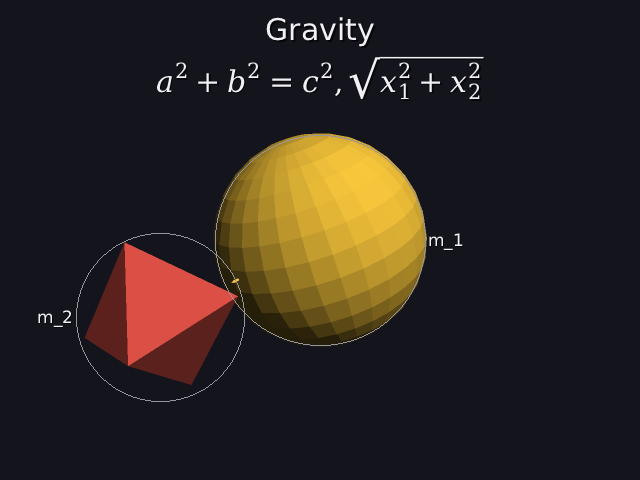
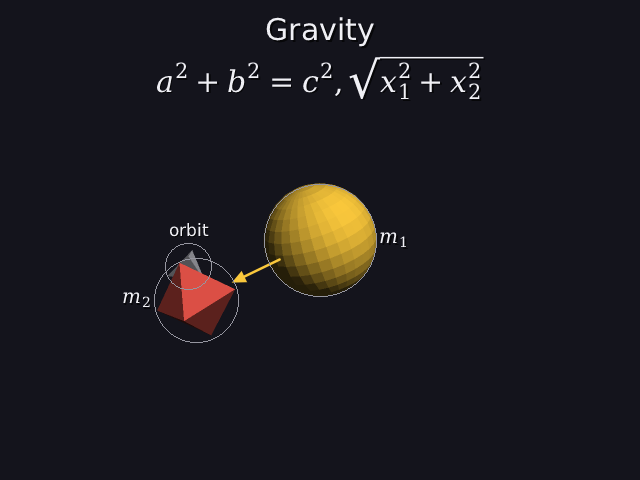
Add timed and pinned labels

Changed region(s): [[0.0625, 0.2812, 0.7188, 0.8125]]

diff --git a/world.cpp b/world.cpp
@@ -18,7 +18,15 @@ std::vector<float> world::load_meshes(const scene_spec& spec){
 
 world::world(const scene_spec& spec,layout::method still_how,motion_plan::method moving_how)
 	: solved(spec, load_meshes(spec), still_how, moving_how), placer(cam.width, cam.height){
-	for(const object_spec& o : spec.objects) labels.push_back(o.label);
+	for(const object_spec& o : spec.objects){
+		world_label l{o.label, o.label_math, o.label_always, o.label_start, o.label_end, {}};
+		if(l.math && !l.text.empty()){
+			math_parse_result parsed = parse_math(l.text);
+			if(parsed.tree && fonts::serif() && fonts::italic()) l.formula = layout_math(*parsed.tree, 20.0f);
+			else l.math = false;
+		}
+		labels.push_back(l);
+	}
 	objects.reserve(spec.objects.size());
 	for(size_t i = 0;i<spec.objects.size();i++){
 		const object_spec& o = spec.objects[i];
@@ -115,21 +123,23 @@ void world::draw_overlays(render& renderer,float t){
 	// titles, across the top, centered (docs/27, 29); several stack downwards
 	float top = 12.0f;
 	for(const title_spec& s : titles){
-		if(t < s.start || (s.end >= 0.0f && t > s.end)) continue;
+		float seen = appear(s.start, s.end, t);
+		if(seen <= 0.0f) continue;
 		// as big as fits: 30 pixels, or smaller if it would run off the sides
 		float size = 30.0f;
 		float room = float(cam.width - 32);
 		float w = render::text_width(s.text, size);
 		if(w > room) size *= room / w;               // text width grows in step with size
 		float x = (cam.width - render::text_width(s.text, size)) / 2.0f;
-		renderer.draw_text(x, top, s.text, size, px::Pixel(240, 240, 245));
+		renderer.draw_text(x, top, s.text, size, px::Pixel(240, 240, 245, uint8_t(255 * seen)));
 		top += render::text_height(size) + 6.0f;
 	}
 	// formulas under the titles, centered, each during its own time range
 	for(const world_math& m : maths){
-		if(t < m.when.start || (m.when.end >= 0.0f && t > m.when.end)) continue;
+		float seen = appear(m.when.start, m.when.end, t);
+		if(seen <= 0.0f) continue;
 		float x = (cam.width - m.formula.width) / 2.0f;
-		renderer.draw_math(x, top + 4.0f, m.formula, px::Pixel(240, 240, 245));
+		renderer.draw_math(x, top + 4.0f, m.formula, px::Pixel(240, 240, 245), seen);
 		top += m.formula.height + m.formula.depth + 12.0f;
 	}
 
@@ -152,17 +162,24 @@ void world::draw_overlays(render& renderer,float t){
 	const float label_size = 17.0f;
 	std::vector<label_request> requests;
 	std::vector<size_t> owner;
+	std::vector<float> seen_amount;
 	for(size_t i = 0;i<objects.size();i++){
-		if(labels[i].empty()) continue;
-		label_request r{render::text_width(labels[i], label_size), render::text_height(label_size), {0, 0}, 0, false};
+		const world_label& l = labels[i];
+		if(l.text.empty()) continue;
+		float w = l.math ? l.formula.width : render::text_width(l.text, label_size);
+		float h = l.math ? l.formula.height + l.formula.depth : render::text_height(label_size);
+		label_request r{w, h, {0, 0}, 0, false, l.always};
+		float seen = appear(l.start, l.end, t);
 		float x, y, radius;
-		if(objects[i].opacity() > 0.05f && renderer.where_on_screen(objects[i].get_position(), objects[i].bounding_radius(), x, y, radius)){
+		if(seen > 0.0f && objects[i].opacity() > 0.05f
+		   && renderer.where_on_screen(objects[i].get_position(), objects[i].bounding_radius(), x, y, radius)){
 			r.anchor = {x, y};
 			r.radius = radius;
 			r.visible = x >= 0 && y >= 0 && x <= cam.width && y <= cam.height;
 		}
 		requests.push_back(r);
 		owner.push_back(i);
+		seen_amount.push_back(seen);
 	}
 	if(requests.empty()) return;
 	const std::vector<placed_label>& placed = placer.place(requests);
@@ -177,10 +194,12 @@ void world::draw_overlays(render& renderer,float t){
 			if(len > 1.0f){
 				float sx = requests[k].anchor.x + dx / len * requests[k].radius;
 				float sy = requests[k].anchor.y + dy / len * requests[k].radius;
-				renderer.draw_screen_line(sx, sy, c.x, c.y, 1.0f, px::Pixel(200, 200, 210, 200));
+				renderer.draw_screen_line(sx, sy, c.x, c.y, 1.0f, px::Pixel(200, 200, 210, uint8_t(200 * seen_amount[k])));
 			}
 		}
-		renderer.draw_text(b.x0, b.y0, labels[owner[k]], label_size, px::Pixel(240, 240, 245));
+		const world_label& l = labels[owner[k]];
+		if(l.math) renderer.draw_math(b.x0, b.y0, l.formula, px::Pixel(240, 240, 245), seen_amount[k]);
+		else       renderer.draw_text(b.x0, b.y0, l.text, label_size, px::Pixel(240, 240, 245, uint8_t(255 * seen_amount[k])));
 	}
 }
 

diff --git a/engine_test.cpp b/engine_test.cpp
@@ -254,6 +254,27 @@ static void test_labels(){
 	}
 	check(overlaps == 0, "15 crowded labels: " + std::to_string(shown) + " shown, 0 overlapping (" + std::to_string(overlaps) + ")");
 
+	// timed words fade in and out over 0.3 s (docs/28)
+	check(appear(2, 8, 1.9f) == 0.0f && appear(2, 8, 5) == 1.0f && appear(2, 8, 8.5f) == 0.0f,
+	      "a label shown 2s-8s: hidden at 1.9 s, there at 5 s, gone at 8.5 s");
+	check(std::fabs(appear(2, 8, 2.15f) - 0.5f) < 1e-5f && std::fabs(appear(2, 8, 7.85f) - 0.5f) < 1e-5f,
+	      "halfway through its 0.3 s fade-in (2.15 s) and fade-out (7.85 s) it's half visible");
+	check(appear(0, -1, 0) == 1.0f, "a label with no time range is simply always there, from the first frame");
+
+	parse_result opts = parse_scene("sun = sphere label math \"m_1\" 2s-8s always\n");
+	const object_spec& sun = opts.spec.objects[0];
+	check(opts.ok() && sun.label_math && sun.label_always && sun.label_start == 2.0f && sun.label_end == 8.0f,
+	      "'label math \"m_1\" 2s-8s always' is read as a formula, shown 2 s to 8 s, never hidden");
+
+	// the crowd again: the one label that was hidden, marked always-on, is shown
+	size_t hidden = 0;
+	for(size_t i = 0;i<out.size();i++) if(!out[i].shown) hidden = i;
+	label_layout crowd2(640, 480);
+	std::vector<label_request> pinned = many;
+	pinned[hidden].always = true;
+	const std::vector<placed_label>& again = crowd2.place(pinned);
+	check(again[hidden].shown, "the label that had no room is shown once it's marked always (label " + std::to_string(hidden) + ")");
+
 	// flicker: B's object jitters back and forth (30 pixels) just right of
 	// A's, for 120 frames; count how often the labels switch side
 	auto flips = [](bool keep){
@@ -386,7 +407,12 @@ static bool same_spec(const scene_spec& a,const scene_spec& b,std::string& why){
 	if(a.objects.size() != b.objects.size()){ why = "different number of objects"; return false; }
 	if(a.arrows.size() != b.arrows.size()){ why = "different number of arrows"; return false; }
 	if(a.titles.size() != b.titles.size()){ why = "different number of titles"; return false; }
-	for(size_t i = 0;i<a.objects.size();i++) if(a.objects[i].label != b.objects[i].label){ why = "labels differ"; return false; }
+	for(size_t i = 0;i<a.objects.size();i++){
+		const object_spec& x = a.objects[i];
+		const object_spec& y = b.objects[i];
+		if(x.label != y.label || x.label_math != y.label_math || x.label_always != y.label_always
+		   || x.label_start != y.label_start || x.label_end != y.label_end){ why = "labels differ"; return false; }
+	}
 	if(a.view != b.view){ why = "different view"; return false; }
 	for(size_t i = 0;i<a.objects.size();i++){
 		const object_spec& x = a.objects[i];

diff --git a/label_layout.cpp b/label_layout.cpp
@@ -64,6 +64,24 @@ bool label_layout::free_at(const box2& b,size_t self,const std::vector<label_req
 	return true;
 }
 
+// How many things a box overlaps, and whether it leaves the picture (that
+// counts as 2, so labels stay on screen if they possibly can).
+int label_layout::crowding(const box2& b,size_t self,const std::vector<label_request>& requests,
+                           const std::vector<placed_label>& placed)const{
+	int count = 0;
+	if(b.x0 < 0 || b.y0 < 0 || b.x1 > width || b.y1 > height) count += 2;
+	for(size_t j = 0;j<placed.size();j++){
+		if(j != self && placed[j].shown && overlap(b, placed[j].where)) count++;
+	}
+	for(size_t j = 0;j<requests.size();j++){
+		if(j == self || !requests[j].visible) continue;
+		const label_request& o = requests[j];
+		box2 dot{o.anchor.x - o.radius, o.anchor.x + o.radius, o.anchor.y - o.radius, o.anchor.y + o.radius};
+		if(overlap(b, dot)) count++;
+	}
+	return count;
+}
+
 const std::vector<placed_label>& label_layout::place(const std::vector<label_request>& requests){
 	size_t n = requests.size();
 	previous = current;
@@ -81,7 +99,11 @@ const std::vector<placed_label>& label_layout::place(const std::vector<label_req
 	}
 	std::vector<size_t> order(n);
 	std::iota(order.begin(), order.end(), 0);
-	std::stable_sort(order.begin(), order.end(), [&](size_t a,size_t b){ return priority[a] > priority[b]; });
+	// always-on labels first (docs/28), then by priority
+	std::stable_sort(order.begin(), order.end(), [&](size_t a,size_t b){
+		if(requests[a].always != requests[b].always) return requests[a].always;
+		return priority[a] > priority[b];
+	});
 
 	for(size_t i : order){
 		const label_request& r = requests[i];
@@ -102,6 +124,16 @@ const std::vector<placed_label>& label_layout::place(const std::vector<label_req
 				break;
 			}
 			if(current[i].shown) break;
+		}
+		if(!current[i].shown && r.always){
+			// an always-on label is never hidden: take the side (next to the
+			// object) that overlaps the fewest things
+			int best = -1, least = 1 << 30;
+			for(int side : sides){
+				int c = crowding(candidate(r, side, gap), i, requests, current);
+				if(c < least){ least = c; best = side; }
+			}
+			current[i] = {true, candidate(r, best, gap), best, false};
 		}
 		if(!current[i].shown) continue;                     // nowhere to go: hidden this frame
 

diff --git a/scene_parser.cpp b/scene_parser.cpp
@@ -209,7 +209,8 @@ static std::vector<token> tokenize(const std::string& source){
 //    header     = "scene" [ text ] [ "view" view_word ]
 //    definition = name "=" shape { property }
 //    fact       = name phrase { [","] phrase }
-//    property   = size | color | "important" | "label" text | phrase | ","
+//    property   = size | color | "important" | label | phrase | ","
+//    label      = "label" [ "math" ] text { "math" | time "-" time | "always" }
 //    phrase     = relation_word name
 //               | "orbits" name [ number ("turn" | "turns") ] time "-" time
 //               | "flies_past" name time "-" time
@@ -479,9 +480,31 @@ void parser::phrase(object_spec& o,const token& first){
 		return;
 	}
 	if(first.value == "label"){
+		if(peek().kind == token_kind::word && peek().value == "math"){ next(); o.label_math = true; }
 		const token& words = next();
 		if(words.kind != token_kind::text) fail(words, "expected the label's words in quotes, like: label \"the sun\"");
 		o.label = words.value;
+		// what may follow the words, in any order
+		while(true){
+			if(peek().kind == token_kind::word && peek().value == "math"){ next(); o.label_math = true; continue; }
+			if(peek().kind == token_kind::word && peek().value == "always"){ next(); o.label_always = true; continue; }
+			if(peek().kind == token_kind::time){
+				o.label_start = time("");
+				const token& dash = next();
+				if(dash.kind != token_kind::dash) fail(dash, "expected '-' between the label's start and end times, like 2s-8s");
+				o.label_end = time("for when the label goes away, like 8s");
+				continue;
+			}
+			break;
+		}
+		if(o.label_math){
+			math_parse_result check = parse_math(o.label);
+			if(!check.error.empty()){
+				token at = words;
+				at.column = words.column + check.column;
+				fail(at, "in the label's formula: " + check.error);
+			}
+		}
 		return;
 	}
 	if(first.value == "fades_in" || first.value == "fades_out"){

diff --git a/scene_spec.h b/scene_spec.h
@@ -133,6 +133,10 @@ struct object_spec{
 	std::vector<motion> motions;   // empty = it stands still
 	std::vector<fade_step> fades;  // fading in or out (docs/24)
 	std::string label;             // words shown next to it (docs/28); empty = none
+	bool label_math = false;       // the label is a formula (docs/30)
+	bool label_always = false;     // never hidden: placed first, even if crowded
+	float label_start = 0.0f;      // shown from start to end; end < 0 = always
+	float label_end = -1.0f;
 
 	// Each of these adds a relation and returns the object itself, so they
 	// can be chained:  spec.add(...).near("cube").above("table");
@@ -203,7 +207,7 @@ public:
 
 	object_spec& add(const std::string& name,const std::string& mesh_file,px::Pixel color,
 	                 size_word size = size_word::normal,int importance = 1){
-		objects.push_back(object_spec{name, mesh_file, color, size, importance, {}, {}, {}, ""});
+		objects.push_back(object_spec{name, mesh_file, color, size, importance, {}, {}, {}, "", false, false, 0.0f, -1.0f});
 		return objects.back();
 	}
 

diff --git a/timeline.h b/timeline.h
@@ -92,6 +92,18 @@ inline float steepest(rate r){
 	return most;
 }
 
+// How visible something shown from `start` to `end` is at time t (docs/28):
+// 0 outside, 1 inside, and a quick fade over `fade` seconds at each end so
+// words don't pop. No fade-in if it starts at 0 (it's there from the
+// start), no fade-out if end < 0 (it never goes away).
+//   appear(2, 8, 2.15) = 0.5       appear(2, 8, 5) = 1       appear(2, 8, 9) = 0
+inline float appear(float start,float end,float t,float fade = 0.3f){
+	if(t < start || (end >= 0.0f && t > end)) return 0.0f;
+	float in  = start > 0.0f ? std::clamp((t - start) / fade, 0.0f, 1.0f) : 1.0f;
+	float out = end >= 0.0f ? std::clamp((end - t) / fade, 0.0f, 1.0f) : 1.0f;
+	return std::min(in, out);
+}
+
 // A stretch of time in seconds, e.g. from second 3 to second 6.
 struct time_span{
 	float start = 0.0f;

diff --git a/world.h b/world.h
@@ -2,6 +2,7 @@
 #include "camera.h"
 #include "frame_source.h"
 #include "label_layout.h"
+#include "math_layout.h"
 #include "mesh.h"
 #include "object.h"
 #include "scene_spec.h"
@@ -60,7 +61,13 @@ private:
 		math_box formula;
 	};
 	std::vector<world_math> maths;
-	std::vector<std::string> labels;      // labels[i] = object i's label ("" = none)
+	struct world_label{
+		std::string text;                 // "" = no label
+		bool math = false, always = false;
+		float start = 0.0f, end = -1.0f;
+		math_box formula;                 // if math: laid out once
+	};
+	std::vector<world_label> labels;      // labels[i] = object i's label
 	label_layout placer;
 	std::vector<std::string> arrow_errors;
 };

diff --git a/label_layout.h b/label_layout.h
@@ -40,6 +40,7 @@ struct label_request{
 	point2 anchor;            // the object's center on screen
 	float radius;             // the object's circle on screen
 	bool visible = true;      // in front of the camera and in the picture
+	bool always = false;      // never hidden: placed first, and shown even if crowded
 };
 
 struct placed_label{
@@ -80,6 +81,8 @@ public:
 
 private:
 	bool free_at(const box2& b,size_t self,const std::vector<label_request>& requests,
+	             const std::vector<placed_label>& placed)const;
+	int crowding(const box2& b,size_t self,const std::vector<label_request>& requests,
 	             const std::vector<placed_label>& placed)const;
 
 	int width, height;

diff --git a/render.cpp b/render.cpp
@@ -418,7 +418,7 @@ void render::finish(){
 			paint_text(t, 0, 0, t.color);
 		}else{
 			float offset = std::max(1.0f, t.size / 16.0f);
-			paint_outline_text(t, offset, offset, px::Pixel(0, 0, 0, 170));
+			paint_outline_text(t, offset, offset, px::Pixel(0, 0, 0, uint8_t(170 * t.color.a / 255)));
 			paint_outline_text(t, 0, 0, t.color);
 		}
 	}

diff --git a/docs/28-labels.md b/docs/28-labels.md
@@ -158,6 +158,42 @@ labels) it's **26 side changes with, 50 without**. The 26 left are real
 moves: a planet swinging round to the other side of the sun has to move its
 label.
 
+## Timed and always-on labels
+
+A label can say **when** it shows, and that it must **never** be hidden:
+
+```
+moon   = tetrahedron small white orbits planet 2 turns 0s-20s label "orbit" 5s-15s
+sun    = sphere big gold important label math "m_1" always
+```
+
+**Timed.** A label (like a title or a formula) shows only during its range,
+and fades in and out over 0.3 s at the ends instead of popping
+(`appear` in `timeline.h`):
+
+```
+appear(start, end, t) = min( (t − start) / 0.3,  (end − t) / 0.3 ),   clamped to 0..1
+appear(2, 8, 2.15) = 0.15 / 0.3 = 0.5       halfway through the fade-in
+appear(2, 8, 5)    = 1                      fully there
+appear(2, 8, 8.5)  = 0                      gone
+```
+
+A range starting at 0 doesn't fade in: it's there from the first frame. The
+fade multiplies the text's alpha (24), and its shadow fades with it.
+
+**Always on.** Normally a label with no free spot is hidden that frame (step
+5). An `always` label is placed **first**, before the priority order, and if
+nothing is free it still goes **next to its object**, on the side that
+overlaps the fewest things. (Leaving the picture counts double, so it stays on
+screen if it possibly can.) With hysteresis it keeps that side, so it stays
+steadily beside the object.
+
+The test takes the crowd from below, finds the one label that had no room,
+marks it `always`, and checks it's now shown.
+
+**Formulas as labels.** `label math "m_1"` makes the label a formula (30):
+its box's width, and height plus depth, are the label's size for the layout.
+
 ## Tests
 
 ```
@@ -170,6 +206,11 @@ labels:
   PASS  'label "the sun"' is read as the sun's label
   PASS  15 crowded labels: 14 shown, 0 overlapping (0)
   PASS  keeping last frame's side means fewer flips: 0 with, 35 without
+  PASS  a label shown 2s-8s: hidden at 1.9 s, there at 5 s, gone at 8.5 s
+  PASS  halfway through its 0.3 s fade-in (2.15 s) and fade-out (7.85 s) it's half visible
+  PASS  a label with no time range is simply always there, from the first frame
+  PASS  'label math "m_1" 2s-8s always' is read as a formula, shown 2 s to 8 s, never hidden
+  PASS  the label that had no room is shown once it's marked always (label 6)
 ```
 
 In the crowd test, 15 labels are packed around points close together: 14

diff --git a/docs/30-math.md b/docs/30-math.md
@@ -161,6 +161,13 @@ drawn last, on the finished picture.
 Each formula is **laid out once**, when the scene is built, and only drawn
 every frame.
 
+### Formulas as labels
+
+`label math "m_1" always` (28): the label's size for the layout is the
+formula's box, so m₁ and m₂ above sit next to their objects like any label,
+and with `always` they're never hidden. Formulas fade in and out at the ends
+of their time range like titles.
+
 ## 5. Tests
 
 ```
